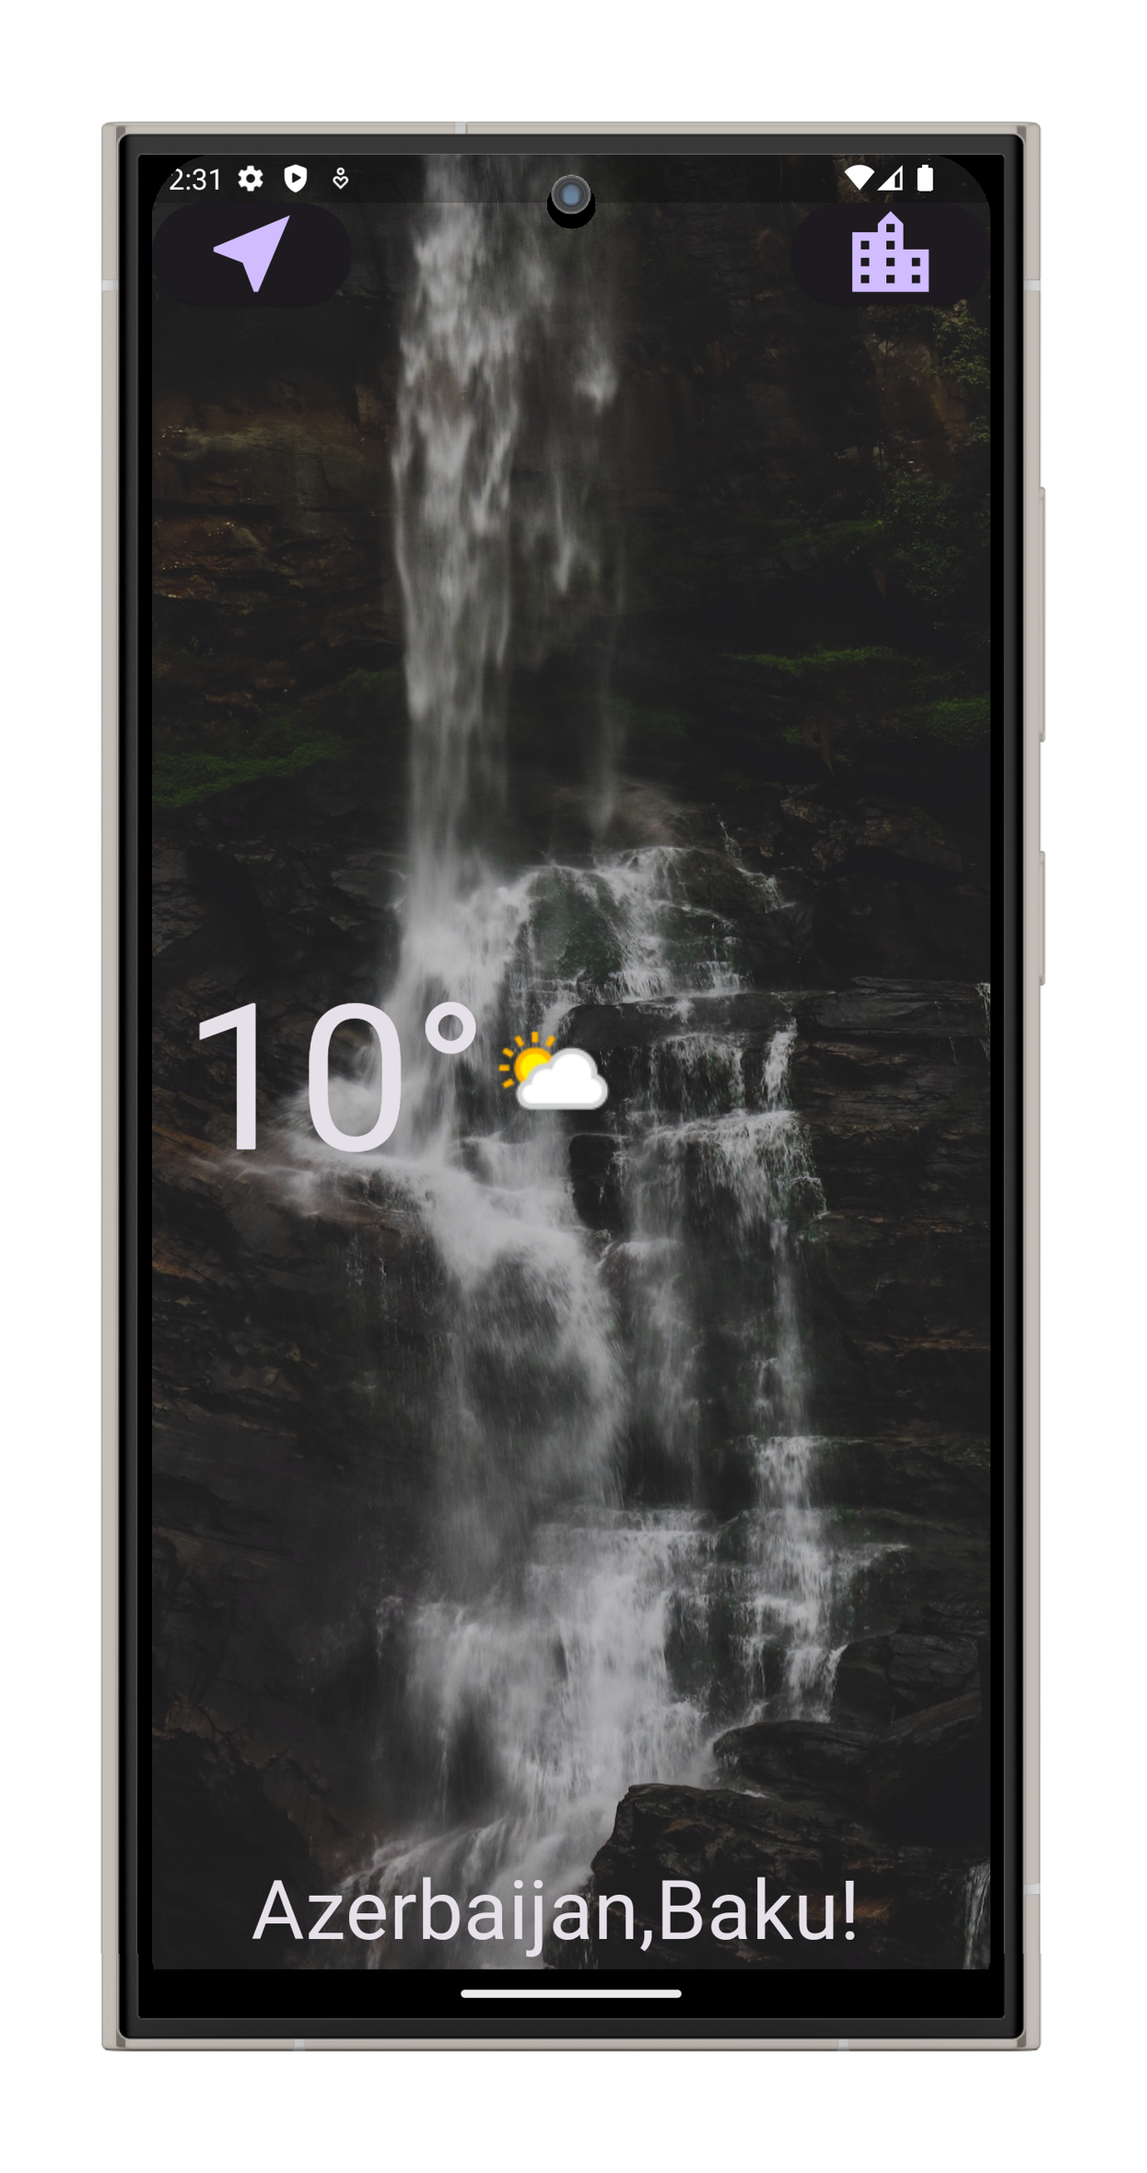
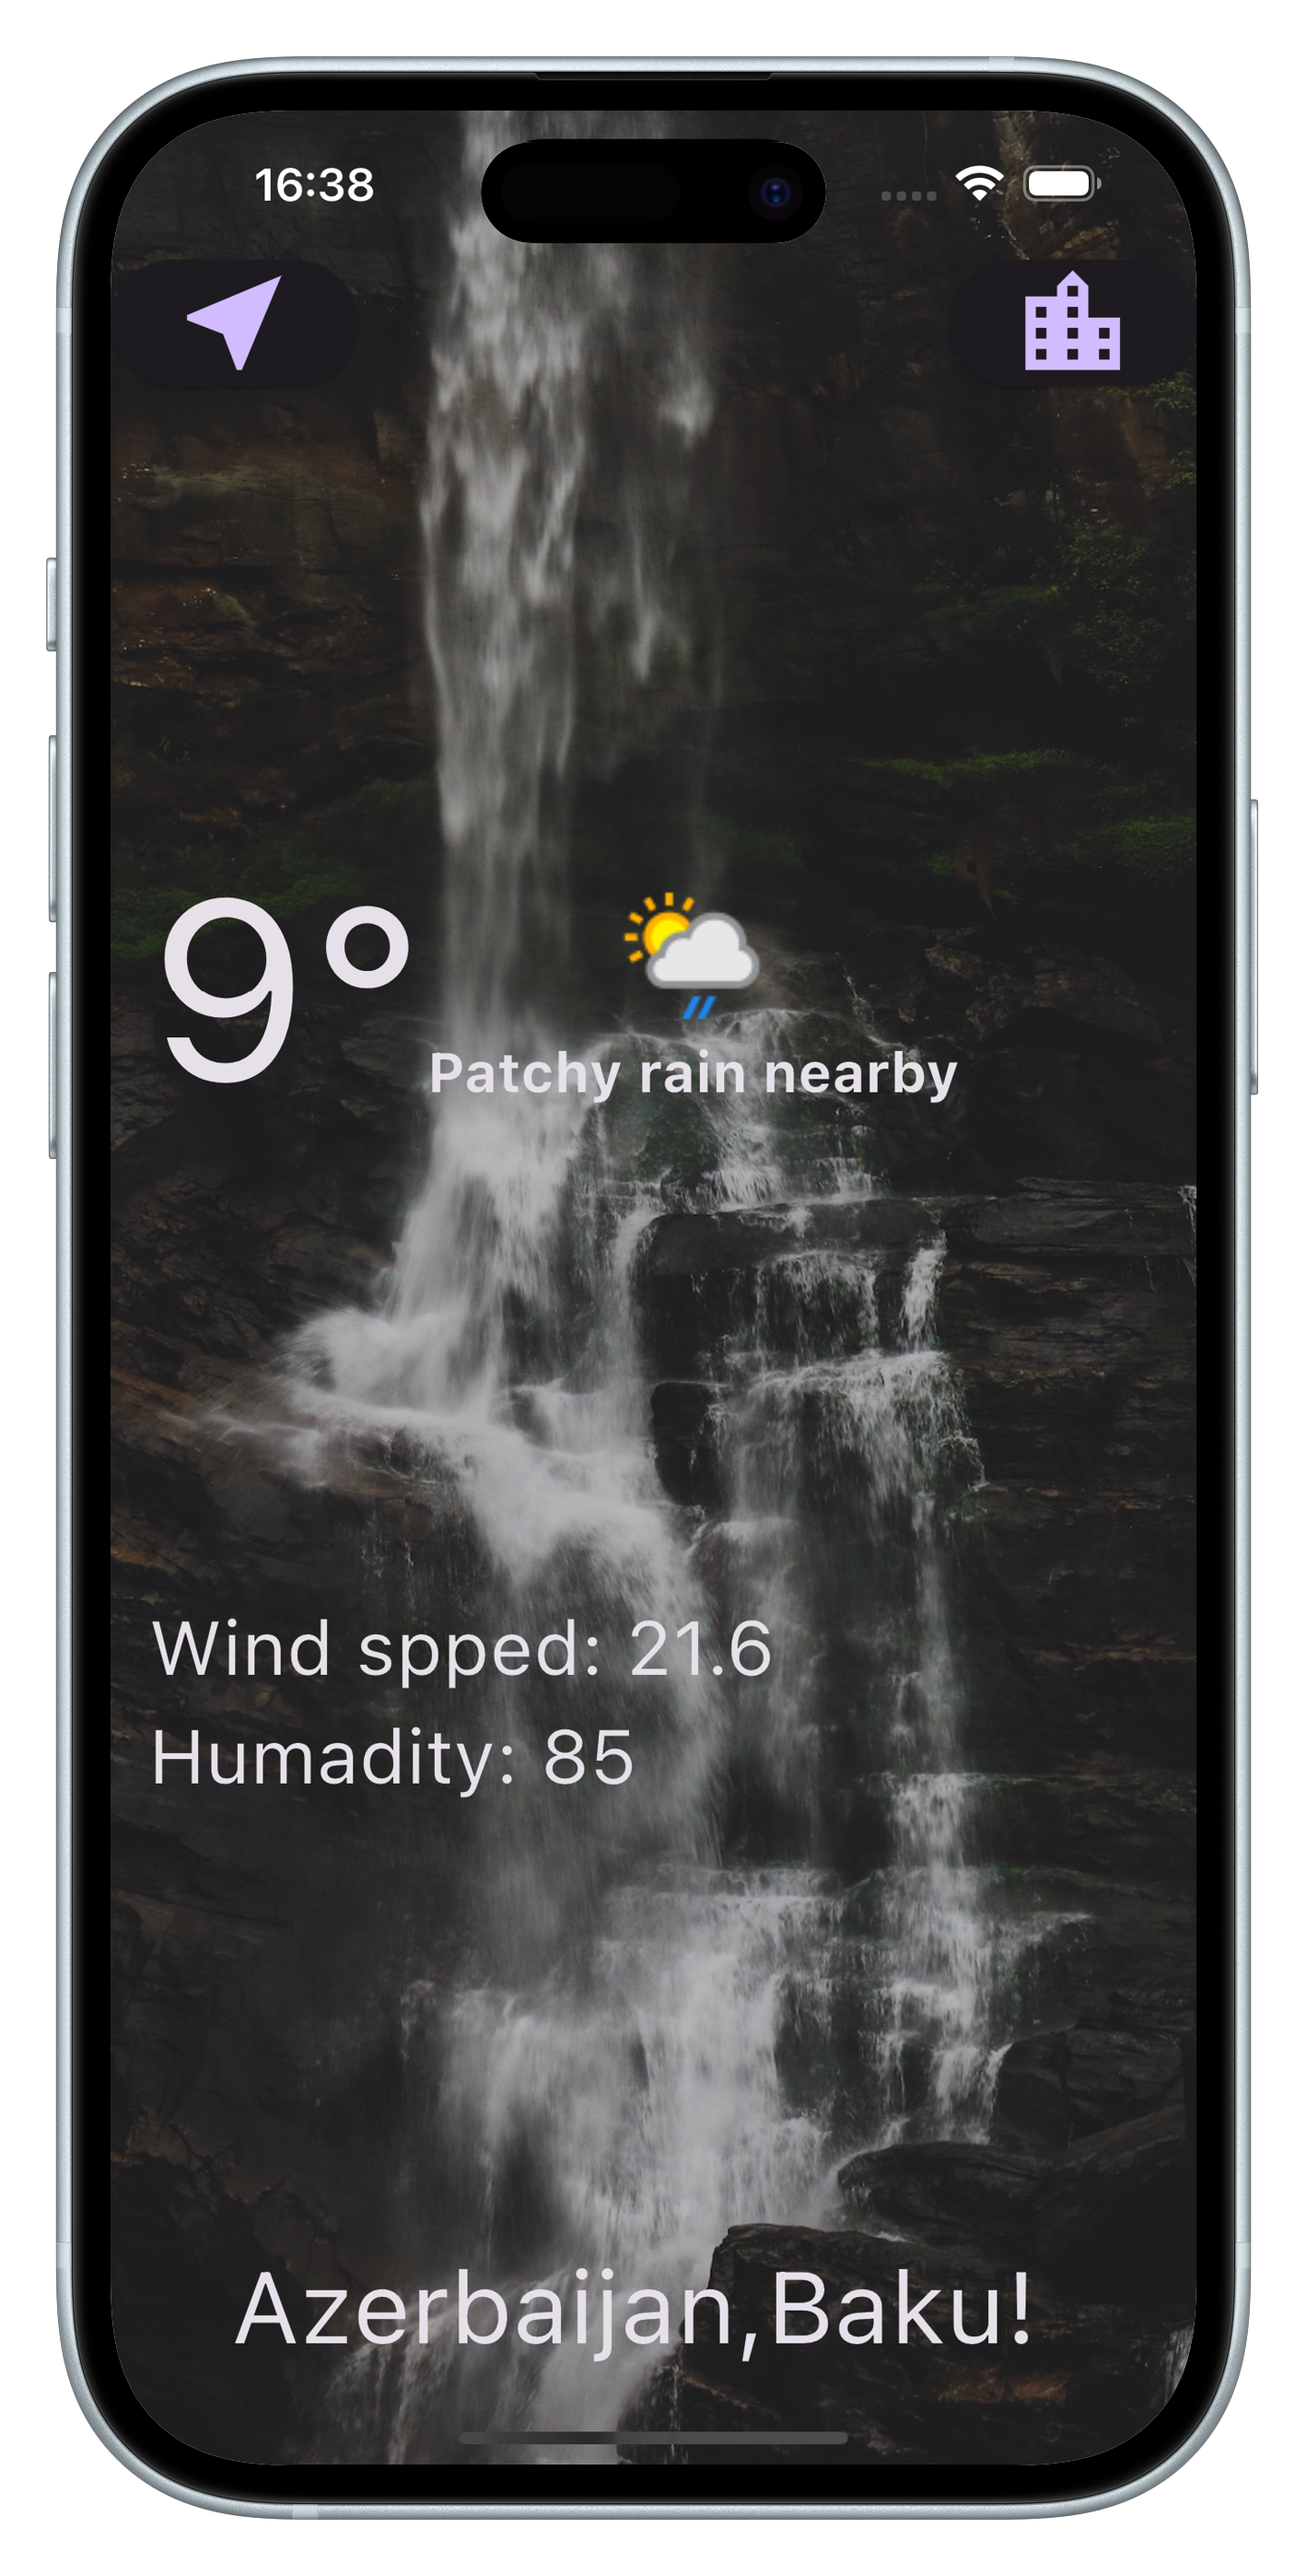
Add search page functionality, add new screenshots

diff --git a/lib/screens/location_screen.dart b/lib/screens/location_screen.dart
@@ -1,4 +1,6 @@
 import 'package:flutter/material.dart';
+import 'package:weather_app/screens/city_screen.dart';
+import 'package:weather_app/services/weather.dart';
 import '../utilities/constants.dart';
 
 class LocationScreen extends StatefulWidget {
@@ -12,11 +14,14 @@ class LocationScreen extends StatefulWidget {
 }
 
 class _LocationScreenState extends State<LocationScreen> {
-
+  WeatherModel weatherModel = WeatherModel();
   int? temprerature;
   String? name;
   String? country;
   String? icon;
+  double? speed;
+  int? humidity;
+  String? condition;
 
   @override
   void initState() {
@@ -24,13 +29,17 @@ class _LocationScreenState extends State<LocationScreen> {
     updateUI(widget.locationWeather);
   }
 
-  void updateUI (dynamic locationWeather) {
-
-      double temp = locationWeather['current']['temp_c'];
-      temprerature = temp.toInt();
-      name = locationWeather['location']['name'];
-      country = locationWeather['location']['country'];
-      icon = locationWeather['current']['condition']['icon'];
+  void updateUI (dynamic weatherData) {
+      setState(() {
+        double temp = weatherData['current']['temp_c'];
+        temprerature = temp.toInt();
+        name = weatherData['location']['name'];
+        country = weatherData['location']['country'];
+        icon = weatherData['current']['condition']['icon'];
+        speed = weatherData['current']['wind_kph'];
+        humidity = weatherData['current']['humidity'];
+        condition = weatherData['current']['condition']['text'];
+      });
 
   }
 
@@ -56,14 +65,23 @@ class _LocationScreenState extends State<LocationScreen> {
                 mainAxisAlignment: MainAxisAlignment.spaceBetween,
                 children: <Widget>[
                   ElevatedButton(
-                    onPressed: () {},
+                    onPressed: () async {
+                      var weatherData = await weatherModel.getLocationWeather();
+                      updateUI(weatherData);
+                    },
                     child: const Icon(
                       Icons.near_me,
                       size: 50.0,
                     ),
                   ),
                   ElevatedButton(
-                    onPressed: () {},
+                    onPressed: () async {
+                     var typedName = await Navigator.push(context, MaterialPageRoute(builder: (context) => CityScreen()));
+                     if (typedName != null) {
+                      var weatherData = await weatherModel.getCityWeather(typedName);
+                       updateUI(weatherData);
+                     }
+                    },
                     child: const Icon(
                       Icons.location_city,
                       size: 50.0,
@@ -71,7 +89,7 @@ class _LocationScreenState extends State<LocationScreen> {
                   ),
                 ],
               ),
-             Padding(
+              Padding(
                 padding: EdgeInsets.only(left: 15.0),
                 child: Row(
                   children: <Widget>[
@@ -79,12 +97,31 @@ class _LocationScreenState extends State<LocationScreen> {
                       '$temprerature°',
                       style: kTempTextStyle,
                     ),
-                    Image(image: NetworkImage('https:' + icon!))
+                    Column(
+                      children: [
+                        Image(image: NetworkImage('https:' + icon!,), ),
+                        Text('$condition', style: kConditionTextStyle,)
+                      ],
+                    )
 
                   ],
                 ),
               ),
-               Padding(
+              Padding(
+                padding: EdgeInsets.only(left: 15.0),
+                child: Column(
+                  crossAxisAlignment: CrossAxisAlignment.start,
+                  children: <Widget>[
+                    Text(
+                      'Wind spped: $speed',style: kPropertyTextStyle
+
+                    ),
+                    Text('Humadity: $humidity', style: kPropertyTextStyle)
+
+                  ],
+                ),
+              ),
+              Padding(
                 padding: EdgeInsets.only(right: 15.0),
                 child: Text(
                   "$country,$name!",

diff --git a/lib/screens/city_screen.dart b/lib/screens/city_screen.dart
@@ -7,6 +7,8 @@ class CityScreen extends StatefulWidget {
 }
 
 class _CityScreenState extends State<CityScreen> {
+  String? cityName;
+
   @override
   Widget build(BuildContext context) {
     return Scaffold(
@@ -24,7 +26,9 @@ class _CityScreenState extends State<CityScreen> {
               Align(
                 alignment: Alignment.topLeft,
                 child: ElevatedButton(
-                  onPressed: () {},
+                  onPressed: () {
+                    Navigator.pop(context);
+                  },
                   child: const Icon(
                     Icons.arrow_back_ios,
                     size: 50.0,
@@ -33,10 +37,19 @@ class _CityScreenState extends State<CityScreen> {
               ),
               Container(
                 padding: EdgeInsets.all(20.0),
-                child: null,
+                child: TextField(
+                  style: TextStyle(color: Colors.black, fontSize: 25),
+                  decoration: kTextFieldStyle,
+                  onChanged: (value) {
+                    cityName = value;
+                  },
+                ),
+
               ),
               TextButton(
-                onPressed: () {},
+                onPressed: () {
+                  Navigator.pop(context, cityName);
+                },
                 child: const Text(
                   'Get Weather',
                   style: kButtonTextStyle,

diff --git a/lib/screens/loading_screen.dart b/lib/screens/loading_screen.dart
@@ -1,11 +1,11 @@
 import 'package:flutter/material.dart';
 import 'package:flutter_spinkit/flutter_spinkit.dart';
+
 import 'package:weather_app/screens/location_screen.dart';
-import 'package:weather_app/services/networking.dart';
-import '../services/location.dart';
+import 'package:weather_app/services/weather.dart';
 
 
-const apiKey = 'a64ed23d5a1346e2927105907241712';
+
 
 class LoadingScreen extends StatefulWidget {
   @override
@@ -21,13 +21,9 @@ class _LoadingScreenState extends State<LoadingScreen> {
   }
 
   void getLocationAndData() async {
-    Location location = Location();
-    await location.getCurrentLocation();
 
-
-    NetworkHelper networkHelper = NetworkHelper('http://api.weatherapi.com/v1/current.json?key=a64ed23d5a1346e2927105907241712&q=${location.latitude},${location.longitude}&aqi=no');
-
-    var weatherData = await networkHelper.getData();
+    WeatherModel weatherModel = WeatherModel();
+    var weatherData = await weatherModel.getLocationWeather();
 
     Navigator.push(context, MaterialPageRoute(builder: (context) => LocationScreen(locationWeather: weatherData,)));
   }

diff --git a/lib/services/weather.dart b/lib/services/weather.dart
@@ -1,0 +1,37 @@
+
+
+import 'package:weather_app/services/networking.dart';
+import '../services/location.dart';
+
+const apiKey = 'a64ed23d5a1346e2927105907241712';
+const weatherApiUrl = 'http://api.weatherapi.com/v1/current.json?key=';
+
+class WeatherModel {
+
+
+ Future <dynamic> getCityWeather(String city) async {
+    NetworkHelper networkHelper = NetworkHelper('$weatherApiUrl$apiKey&q=$city&aqi=no');
+    var weatherData = await networkHelper.getData();
+    return weatherData;
+ }
+
+ Future<dynamic> getLocationWeather() async {
+
+  Location location = Location();
+ await location.getCurrentLocation();
+
+ NetworkHelper networkHelper = NetworkHelper('$weatherApiUrl$apiKey&q=${location.latitude},${location.longitude}&aqi=no');
+
+ var weatherData = await networkHelper.getData();
+
+ return weatherData;
+}
+
+
+
+
+
+
+
+
+}

diff --git a/lib/utilities/constants.dart b/lib/utilities/constants.dart
@@ -10,11 +10,29 @@ const kMessageTextStyle = TextStyle(
   fontSize: 40.0,
 );
 
+const kPropertyTextStyle = TextStyle(
+  fontFamily: 'Spartan MB',
+  fontSize: 30.0,
+);
+
 const kButtonTextStyle = TextStyle(
   fontSize: 30.0,
   fontFamily: 'Spartan MB',
 );
 
 const kConditionTextStyle = TextStyle(
-  fontSize: 100.0,
+  fontSize: 22.0,
+  fontWeight: FontWeight.bold
+);
+
+var kTextFieldStyle = InputDecoration(
+    filled: true,
+    fillColor: Colors.white,
+    hintText: 'Search for city weather',
+    hintStyle: TextStyle(color: Colors.grey[500], fontSize: 18),
+    icon: Icon(Icons.location_city, color: Colors.white, size: 35,),
+    border: OutlineInputBorder(
+        borderRadius: BorderRadius.circular(10),
+        borderSide: BorderSide.none
+    )
 );

diff --git a/README.md b/README.md
@@ -9,8 +9,8 @@ The Weather App provides real-time weather updates for any location worldwide. F
 
 ## Key Features
 - Real-time weather updates for your location.
-- Detailed forecasts, including temperature, humidity, wind speed, and precipitation.
-- Search and save your favorite locations.
+- Detailed forecasts, including temperature, humidity and wind speed.
+- Search your favorite locations.
 - Clean and user-friendly interface.
 
 ---
@@ -27,9 +27,10 @@ Displays the current weather for your location.
 ![Search Screen](images/screenshot-2.png)
 Easily search for weather updates for different cities.
 
-### Detailed Forecast
-![Detailed Forecast](images/screenshot-3.png)
-Get an hour-by-hour and 7-day weather forecast.
+
+### Search Screen
+[Search Screen](images/screenshot-3.png)
+
 
 ---
 
